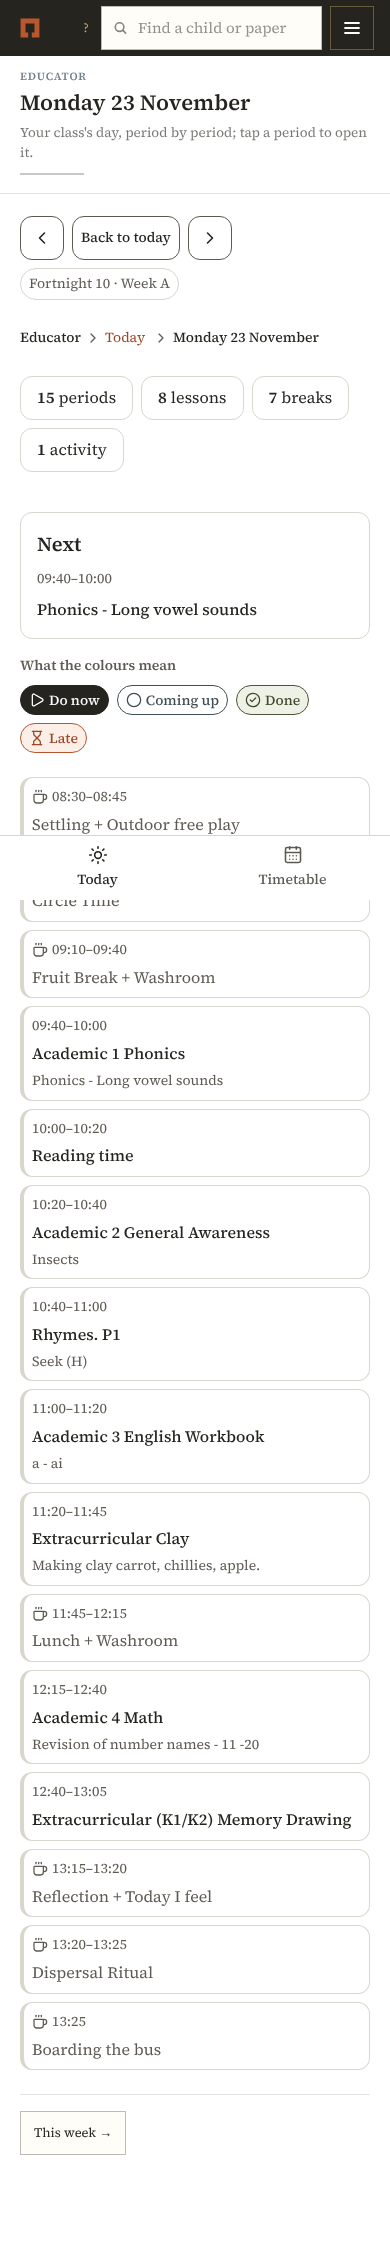
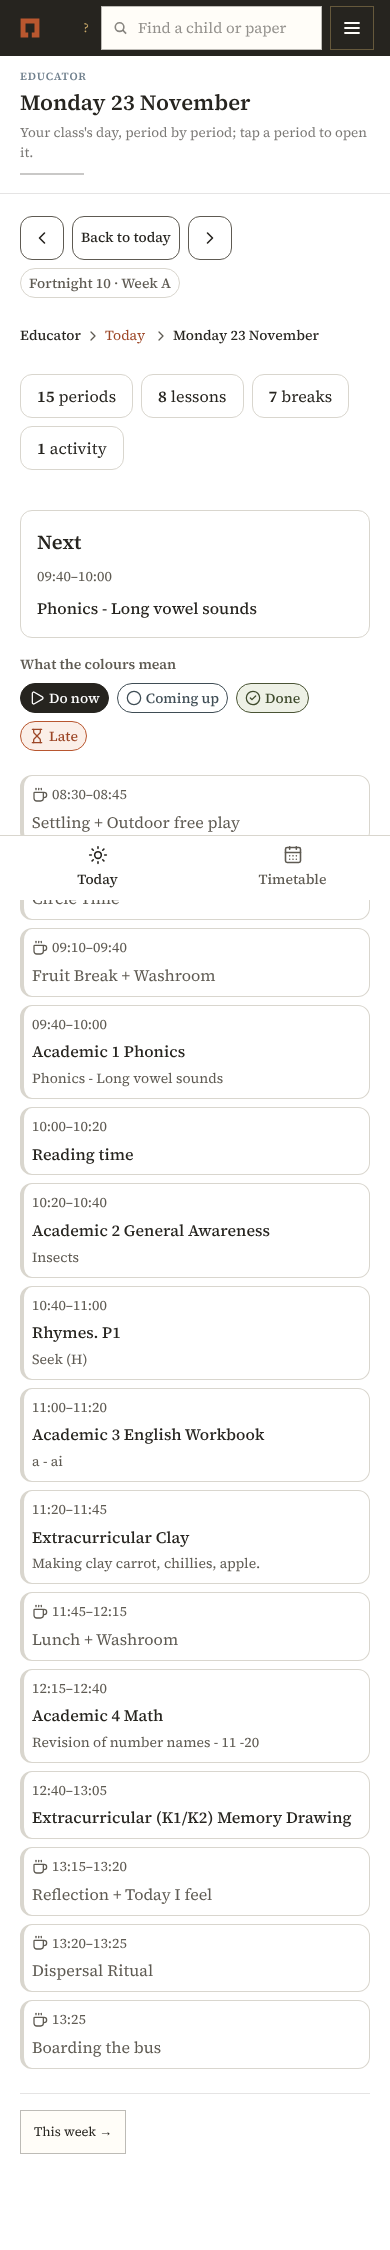
M1-09c: cleanup pass: one pill, one placement helper, lesson and blank-day helpers, chips worked out once; the test loads Fortnight 10 with M1-06's own command
Claude-Session: https://claude.ai/code/session_01KEBF264xrSf75grt89GY2U

diff --git a/apps/web/app/(app)/educator/week/page.tsx b/apps/web/app/(app)/educator/week/page.tsx
@@ -2,13 +2,14 @@ import Link from "@/components/link";
 import { PageShell } from "@/components/page-shell";
 import { PeriodBlock } from "@/components/educator/block";
 import { Crumbs } from "@/components/educator/crumbs";
-import { ClassPick, Steps, Where } from "@/components/educator/day-head";
+import { ClassPick, DayHead } from "@/components/educator/day-head";
 import { Summary } from "@/components/educator/summary";
 import { Legend } from "@/components/educator/tags";
 import { requireStaff } from "@/lib/auth";
 import { mondayOf, nowAtSchool, shortDate, whenIs } from "@/lib/educator/clock";
 import { weekOf } from "@/lib/educator/data";
-import { isDay, withEnds } from "@/lib/educator/period";
+import { chipOf } from "@/lib/educator/chip";
+import { blankWords, isBlank, isDay, isLesson, withEnds } from "@/lib/educator/period";
 import { notFound } from "next/navigation";
 import type { Week } from "@/lib/educator/types";
 import { E } from "@/lib/educator/words";
@@ -29,12 +30,7 @@ export default async function WeekPage({ searchParams }: { searchParams: Promise
       stage={E.area}
       title={w.week_of === mondayOf(today) ? E.week.title : `Week of ${shortDate(w.week_of)}`}
       purpose={E.week.purpose}
-      action={
-        <div className="flex w-full flex-wrap items-center justify-between gap-[var(--space-2)]">
-          <Steps back={at(mondayOf(w.week_of, -1))} now={at(today)} on={at(mondayOf(w.week_of, 1))} words={{ previous: E.weekNav.previous, next: E.weekNav.next, now: E.weekNav.now }} />
-          <Where fortnight={w.fortnight} week={w.week} frozen={w.frozen} />
-        </div>
-      }
+      action={<DayHead back={at(mondayOf(w.week_of, -1))} now={at(today)} on={at(mondayOf(w.week_of, 1))} words={E.weekNav} where={w} />}
       next={{ href: `/educator?class=${w.class.id}&day=${w.week_of}`, label: E.today.title }}
     >
       <Crumbs trail={[{ label: E.area }, { label: E.week.title, href: at(today) }, { label: `Week of ${shortDate(w.week_of)}` }]} />
@@ -43,7 +39,7 @@ export default async function WeekPage({ searchParams }: { searchParams: Promise
         items={[
           { label: E.counts.days, n: w.days.filter((d) => d.kind === "teaching" && d.periods.length).length, href: firstDay(w, (d) => d.kind === "teaching") },
           { label: E.counts.holidays, n: w.days.filter((d) => d.kind === "holiday").length, href: firstDay(w, (d) => d.kind === "holiday") },
-          { label: E.counts.lessons, n: w.days.flatMap((d) => d.periods).filter((p) => p.kind !== "fixed" && p.kind !== "empty").length },
+          { label: E.counts.lessons, n: w.days.flatMap((d) => d.periods).filter(isLesson).length },
           { label: E.counts.activities, n: w.days.flatMap((d) => d.periods).filter((p) => p.activity).length },
         ]}
       />
@@ -64,33 +60,36 @@ function WeekGrid({ w }: { w: Week }) {
   const starts = [...new Set(w.days.flatMap((d) => d.periods.map((p) => p.starts_at)))].sort();
   const row = (start: string) => starts.indexOf(start) + 2; // row 1 holds the days' names
   const now = nowAtSchool();
+  const today = schoolToday();
+  // A cell's place on the grid from md up; on a phone the cells stack in order.
+  const PLACE = "md:[grid-column:var(--c)] md:[grid-row:var(--r)]";
   return (
     <div data-week={w.week_of} className="grid gap-[var(--space-2)] md:grid-cols-[repeat(5,minmax(0,1fr))]">
       {w.days.map((d, i) => {
-        const col = { "--c": i + 1 } as React.CSSProperties;
-        const when = whenIs(d.day);
+        const cell = (r: string | number) => ({ "--c": i + 1, "--r": r }) as React.CSSProperties;
+        const when = whenIs(d.day, today);
         return [
           when === "today" ? (
-            <div key={`${d.day}-today`} data-today-column aria-hidden style={{ ...col, "--r": `1 / span ${starts.length + 1}` } as React.CSSProperties} className="rounded-[var(--radius-m)] bg-[var(--border)]/45 max-md:hidden md:[grid-column:var(--c)] md:[grid-row:var(--r)]" />
+            <div key={`${d.day}-today`} data-today-column aria-hidden style={cell(`1 / span ${starts.length + 1}`)} className={`rounded-[var(--radius-m)] bg-[var(--border)]/45 max-md:hidden ${PLACE}`} />
           ) : null,
           <Link
             key={`${d.day}-head`}
             id={`day-${d.day}`}
             href={`/educator?class=${w.class.id}&day=${d.day}`}
             data-day-head={d.day}
-            style={{ ...col, "--r": 1 } as React.CSSProperties}
-            className="flex min-h-[var(--tap)] items-center justify-between border-b border-[var(--border)] px-[var(--space-2)] font-semibold text-[var(--text)] no-underline max-md:mt-[var(--space-3)] md:[grid-column:var(--c)] md:[grid-row:var(--r)]"
+            style={cell(1)}
+            className={`flex min-h-[var(--tap)] items-center justify-between border-b border-[var(--border)] px-[var(--space-2)] font-semibold text-[var(--text)] no-underline max-md:mt-[var(--space-3)] ${PLACE}`}
           >
             {shortDate(d.day)}
           </Link>,
-          d.kind === "holiday" || d.kind === "none" || d.periods.length === 0 ? (
-            <div key={`${d.day}-none`} data-day={d.day} data-day-kind={d.kind} style={{ ...col, "--r": `2 / span ${Math.max(starts.length, 1)}` } as React.CSSProperties} className="grid min-h-[var(--tap)] place-content-center rounded-[var(--radius-m)] border border-dashed border-[var(--border)] p-[var(--space-3)] text-center text-[var(--text-muted)] md:[grid-column:var(--c)] md:[grid-row:var(--r)]">
-              {d.kind === "holiday" ? `${E.dayKind.holiday}${d.note ? `: ${d.note}` : ""}` : E.dayKind.none}
+          isBlank(d) ? (
+            <div key={`${d.day}-none`} data-day={d.day} data-day-kind={d.kind} style={cell(`2 / span ${Math.max(starts.length, 1)}`)} className={`grid min-h-[var(--tap)] place-content-center rounded-[var(--radius-m)] border border-dashed border-[var(--border)] p-[var(--space-3)] text-center text-[var(--text-muted)] ${PLACE}`}>
+              {blankWords(d)}
             </div>
           ) : (
             withEnds(d.periods).map((p) => (
-              <div key={`${d.day}-${p.period_id}`} data-day={d.day} style={{ ...col, "--r": row(p.starts_at) } as React.CSSProperties} className="min-w-0 md:[grid-column:var(--c)] md:[grid-row:var(--r)]">
-                <PeriodBlock p={p} href={`/educator/period/${p.period_id}?class=${w.class.id}&day=${d.day}`} day={when} now={now} compact />
+              <div key={`${d.day}-${p.period_id}`} data-day={d.day} style={cell(row(p.starts_at))} className={`min-w-0 ${PLACE}`}>
+                <PeriodBlock p={p} href={`/educator/period/${p.period_id}?class=${w.class.id}&day=${d.day}`} chip={chipOf(p, { now, day: when })} compact />
               </div>
             ))
           ),

diff --git a/apps/web/app/(app)/educator/page.tsx b/apps/web/app/(app)/educator/page.tsx
@@ -2,14 +2,14 @@ import { PageShell } from "@/components/page-shell";
 import { EmptyState } from "@/components/empty-state";
 import { PeriodBlock } from "@/components/educator/block";
 import { Crumbs } from "@/components/educator/crumbs";
-import { ClassPick, Steps, Where } from "@/components/educator/day-head";
+import { ClassPick, DayHead } from "@/components/educator/day-head";
 import { Summary } from "@/components/educator/summary";
-import { ChipTag, Legend } from "@/components/educator/tags";
+import { ChipTag, Legend, Pill } from "@/components/educator/tags";
 import { requireStaff } from "@/lib/auth";
 import { chipOf, countdown, nowAt } from "@/lib/educator/chip";
 import { longDate, nowAtSchool, schoolDay, whenIs } from "@/lib/educator/clock";
 import { dayOf } from "@/lib/educator/data";
-import { isDay, timeOf, withEnds } from "@/lib/educator/period";
+import { blankWords, isBlank, isDay, isLesson, timeOf, withEnds } from "@/lib/educator/period";
 import { notFound } from "next/navigation";
 import type { Day } from "@/lib/educator/types";
 import { E } from "@/lib/educator/words";
@@ -30,32 +30,26 @@ export default async function TodayPage({ searchParams }: { searchParams: Promis
       stage={E.area}
       title={d.day === today ? E.today.title : longDate(d.day)}
       purpose={E.today.purpose}
-      action={
-        <div className="flex w-full flex-wrap items-center justify-between gap-[var(--space-2)]">
-          <Steps back={at(schoolDay(d.day, -1))} now={at(today)} on={at(schoolDay(d.day, 1))} words={{ previous: E.day.previous, next: E.day.next, now: E.day.today }} />
-          <Where fortnight={d.fortnight} week={d.week} frozen={d.frozen} />
-        </div>
-      }
+      action={<DayHead back={at(schoolDay(d.day, -1))} now={at(today)} on={at(schoolDay(d.day, 1))} words={E.day} where={d} />}
       next={{ href: `/educator/week?class=${d.class.id}&day=${d.day}`, label: E.week.title }}
     >
       <Crumbs trail={[{ label: E.area }, { label: E.today.title, href: at(today) }, { label: longDate(d.day) }]} />
       <ClassPick classes={d.classes} on={d.class.id} href={(id) => `/educator?class=${id}&day=${d.day}`} />
-      <DayCalendar d={d} classId={d.class.id} />
+      <DayCalendar d={d} />
     </PageShell>
   );
 }
 
-function DayCalendar({ d, classId }: { d: Day; classId: string }) {
-  if (d.kind === "none" || d.kind === "holiday" || d.periods.length === 0)
-    return <EmptyState>{d.kind === "holiday" ? `${E.dayKind.holiday}${d.note ? `: ${d.note}` : ""}` : E.dayKind.none}</EmptyState>;
+function DayCalendar({ d }: { d: Day }) {
+  if (isBlank(d)) return <EmptyState>{blankWords(d)}</EmptyState>;
   const when = whenIs(d.day);
   const now = nowAtSchool();
   const periods = withEnds(d.periods);
   const work = periods.map((p) => ({ p, chip: chipOf(p, { now, day: when }) }));
-  const lessons = d.periods.filter((p) => p.kind !== "fixed" && p.kind !== "empty");
-  const next = work.find((w) => w.chip === "doNow") ?? (when === "past" ? undefined : work.find((w) => w.p.kind !== "fixed" && w.p.kind !== "empty" && (when === "future" || w.p.starts_at > now)));
+  const lessons = d.periods.filter(isLesson);
+  const next = work.find((w) => w.chip === "doNow") ?? (when === "past" ? undefined : work.find((w) => isLesson(w.p) && (when === "future" || w.p.starts_at > now)));
   const line = when === "today" ? nowAt(periods, now) : null;
-  const href = (id: string) => `/educator/period/${id}?class=${classId}&day=${d.day}`;
+  const href = (id: string) => `/educator/period/${id}?class=${d.class.id}&day=${d.day}`;
   const first = (ps: typeof d.periods) => (ps[0] ? `#p-${ps[0].period_id}` : undefined);
   const breaks = d.periods.filter((p) => p.kind === "fixed");
   const acts = d.periods.filter((p) => p.activity);
@@ -73,10 +67,10 @@ function DayCalendar({ d, classId }: { d: Day; classId: string }) {
       </div>
       <ol data-day={d.day} data-day-kind={d.kind} aria-label={longDate(d.day)} className="col-span-12 grid gap-[var(--space-2)] lg:col-span-8">
         {d.note?.startsWith("undecided:") ? <li className="text-[length:var(--text-label)] text-[var(--text-muted)]">{E.dayKind.undecided}</li> : null}
-        {periods.map((p, i) => (
+        {work.map(({ p, chip }, i) => (
           <li key={p.period_id} className="grid gap-[var(--space-2)]">
             {line === i ? <NowLine now={now} /> : null}
-            <PeriodBlock p={p} href={href(p.period_id)} day={when} now={now} />
+            <PeriodBlock p={p} href={href(p.period_id)} chip={chip} />
           </li>
         ))}
         {line === periods.length ? (
@@ -93,7 +87,9 @@ function DayCalendar({ d, classId }: { d: Day; classId: string }) {
               <span className="text-[length:var(--text-label)] text-[var(--text-muted)] tabular-nums">{timeOf(next.p)}</span>
               <span className="font-medium">{next.p.activity?.name ?? next.p.line ?? next.p.label}</span>
               {next.chip ? <ChipTag chip={next.chip} /> : null}
-              {next.chip !== "doNow" && when === "today" ? <span data-countdown className="w-fit rounded-[var(--radius-pill)] border px-[var(--space-2)] py-[var(--space-1)] text-[length:var(--text-label)] font-medium" style={{ color: "var(--chip-soon-fg)", borderColor: "var(--chip-soon-bd)" }}>{countdown(now, next.p.starts_at)}</span> : null}
+              {next.chip !== "doNow" && when === "today" ? <Pill tone="comingUp" fill={false} data-countdown>
+                  {countdown(now, next.p.starts_at)}
+                </Pill> : null}
             </>
           ) : (
             <p className="text-[var(--text-muted)]">{when === "past" ? E.dayOver : E.nothingLeft}</p>

diff --git a/apps/web/components/educator/block.tsx b/apps/web/components/educator/block.tsx
@@ -1,6 +1,6 @@
 import Link from "@/components/link";
 import { Icon } from "@/lib/icons";
-import { chipOf } from "@/lib/educator/chip";
+import type { Chip } from "@/lib/educator/chip";
 import { nameOf, timeOf } from "@/lib/educator/period";
 import type { Period } from "@/lib/educator/types";
 import { E } from "@/lib/educator/words";
@@ -8,9 +8,8 @@ import { CHIP, ChipTag } from "./tags";
 
 // One period as a calendar block (Today's day and This week's grid): its time as time, what it is in the school's words,
 // and its state's colour down its edge with the chip; a break is quiet, an empty slot says Free. Every block opens the
-// period. `compact` is the week grid's cell.
-export function PeriodBlock({ p, href, day, now, compact = false }: { p: Period; href: string; day: "past" | "today" | "future"; now: string; compact?: boolean }) {
-  const chip = chipOf(p, { now, day });
+// period. `compact` is the week grid's cell; `chip` is the page's own `chipOf` for it.
+export function PeriodBlock({ p, href, chip, compact = false }: { p: Period; href: string; chip: Chip | null; compact?: boolean }) {
   const time = timeOf(p);
   if (p.kind === "empty")
     return (
@@ -29,7 +28,7 @@ export function PeriodBlock({ p, href, day, now, compact = false }: { p: Period;
       data-period={p.period_id}
       data-kind={p.kind}
       data-state={chip ?? "none"}
-      className={`group grid min-h-[var(--tap)] gap-[var(--space-1)] rounded-[var(--radius-m)] border border-[var(--border)] border-l-[length:var(--space-1)] px-[var(--space-2)] py-[var(--space-2)] text-[var(--text)] no-underline hover:border-[var(--border-control)] bg-[var(--surface)]`}
+      className="group grid min-h-[var(--tap)] gap-[var(--space-1)] rounded-[var(--radius-m)] border border-[var(--border)] border-l-[length:var(--space-1)] bg-[var(--surface)] px-[var(--space-2)] py-[var(--space-2)] text-[var(--text)] no-underline hover:border-[var(--border-control)]"
       style={{ borderLeftColor: chip ? CHIP[chip].bd : "var(--border)" }}
     >
       <span className="flex flex-wrap items-center justify-between gap-[var(--space-2)]">

diff --git a/apps/web/components/educator/summary.tsx b/apps/web/components/educator/summary.tsx
@@ -2,22 +2,29 @@ import Link from "@/components/link";
 
 // The strip of counts at the top of a page (D-075): what the page holds, each count a link to the first of what it
 // counts. A count of nothing is shown and not linked.
+const BOX = "inline-flex min-h-[var(--tap)] items-center gap-[var(--space-1)] rounded-[var(--radius-m)] border border-[var(--border)] px-[var(--space-3)]";
+
 export function Summary({ items }: { items: { label: readonly [string, string]; n: number; href?: string }[] }) {
   return (
     <ul data-summary className="mb-[var(--space-3)] flex flex-wrap gap-[var(--space-2)]">
-      {items.map((i) => (
-        <li key={i.label[1]}>
-          {i.href && i.n ? (
-            <Link href={i.href} className="inline-flex min-h-[var(--tap)] items-center gap-[var(--space-1)] rounded-[var(--radius-m)] border border-[var(--border)] px-[var(--space-3)] text-[var(--text)] no-underline hover:border-[var(--border-control)]">
-              <span className="font-semibold tabular-nums">{i.n}</span> {i.label[i.n === 1 ? 0 : 1]}
-            </Link>
-          ) : (
-            <span className="inline-flex min-h-[var(--tap)] items-center gap-[var(--space-1)] rounded-[var(--radius-m)] border border-[var(--border)] px-[var(--space-3)] text-[var(--text-muted)]">
-              <span className="font-semibold tabular-nums">{i.n}</span> {i.label[i.n === 1 ? 0 : 1]}
-            </span>
-          )}
-        </li>
-      ))}
+      {items.map((i) => {
+        const body = (
+          <>
+            <span className="font-semibold tabular-nums">{i.n}</span> {i.label[i.n === 1 ? 0 : 1]}
+          </>
+        );
+        return (
+          <li key={i.label[1]}>
+            {i.href && i.n ? (
+              <Link href={i.href} className={`${BOX} text-[var(--text)] no-underline hover:border-[var(--border-control)]`}>
+                {body}
+              </Link>
+            ) : (
+              <span className={`${BOX} text-[var(--text-muted)]`}>{body}</span>
+            )}
+          </li>
+        );
+      })}
     </ul>
   );
 }

diff --git a/apps/web/components/educator/day-head.tsx b/apps/web/components/educator/day-head.tsx
@@ -3,6 +3,7 @@ import { Icon, type IconName } from "@/lib/icons";
 import type { ClassRef, Fortnight } from "@/lib/educator/types";
 import { classWords } from "@/lib/voice-types";
 import { E } from "@/lib/educator/words";
+import { Pill } from "./tags";
 
 // What sits above a calendar: step back, back to now, step on; the fortnight and week; her classes; the month's lock.
 const STEP = "inline-flex min-h-[var(--tap)] min-w-[var(--tap)] items-center justify-center gap-[var(--space-1)] rounded-[var(--radius-m)] border border-[var(--border-control)] bg-[var(--surface)] px-[var(--space-2)] text-[length:var(--text-label)] font-medium text-[var(--text)] no-underline";
@@ -22,10 +23,20 @@ export function Steps({ back, now, on, words }: { back: string; now: string; on:
   );
 }
 
+/** The row above a calendar: the steps on one side, where in the plan it is on the other. */
+export function DayHead({ back, now, on, words, where }: Parameters<typeof Steps>[0] & { where: Parameters<typeof Where>[0] }) {
+  return (
+    <div className="flex w-full flex-wrap items-center justify-between gap-[var(--space-2)]">
+      <Steps back={back} now={now} on={on} words={words} />
+      <Where {...where} />
+    </div>
+  );
+}
+
 export function Where({ fortnight, week, frozen }: { fortnight: Fortnight | null; week: "A" | "B" | null; frozen: boolean }) {
   return (
     <div className="flex flex-wrap items-center gap-[var(--space-2)] text-[length:var(--text-label)] text-[var(--text-muted)]">
-      {fortnight ? <span className="rounded-[var(--radius-pill)] border border-[var(--border)] px-[var(--space-2)] py-[var(--space-1)]">{E.fortnight(fortnight.number, week)}</span> : null}
+      {fortnight ? <Pill>{E.fortnight(fortnight.number, week)}</Pill> : null}
       {frozen ? (
         <span data-frozen title={E.frozenNote} className="inline-flex items-center gap-[var(--space-1)]">
           <Icon name="frozen" size={16} />

diff --git a/apps/web/components/educator/tags.tsx b/apps/web/components/educator/tags.tsx
@@ -11,13 +11,22 @@ export const CHIP: Record<Chip, { icon: IconName; fg: string; bg: string; bd: st
   late: { icon: "late", fg: "var(--chip-late-fg)", bg: "var(--chip-late-bg)", bd: "var(--chip-late-bd)" },
 };
 
-export function ChipTag({ chip }: { chip: Chip }) {
-  const c = CHIP[chip];
+/** The pill every chip, countdown and fortnight is drawn in: a state's colours, or the plain line. */
+export function Pill({ tone, fill = true, children, ...rest }: { tone?: Chip; fill?: boolean; children: React.ReactNode } & React.HTMLAttributes<HTMLSpanElement>) {
+  const c = tone ? CHIP[tone] : null;
   return (
-    <span data-chip={chip} className="inline-flex w-fit items-center gap-[var(--space-1)] rounded-[var(--radius-pill)] border px-[var(--space-2)] py-[var(--space-1)] text-[length:var(--text-label)] leading-[var(--lh-label)] font-medium whitespace-nowrap" style={{ color: c.fg, background: c.bg, borderColor: c.bd }}>
-      <Icon name={c.icon} size={16} />
-      {E.chips[chip]}
+    <span {...rest} className="inline-flex w-fit items-center gap-[var(--space-1)] rounded-[var(--radius-pill)] border border-[var(--border)] px-[var(--space-2)] py-[var(--space-1)] text-[length:var(--text-label)] leading-[var(--lh-label)] font-medium whitespace-nowrap" style={c ? { color: c.fg, background: fill ? c.bg : undefined, borderColor: c.bd } : undefined}>
+      {children}
     </span>
+  );
+}
+
+export function ChipTag({ chip }: { chip: Chip }) {
+  return (
+    <Pill tone={chip} data-chip={chip}>
+      <Icon name={CHIP[chip].icon} size={16} />
+      {E.chips[chip]}
+    </Pill>
   );
 }
 

diff --git a/apps/web/tests/m1-09-calendar.spec.ts b/apps/web/tests/m1-09-calendar.spec.ts
@@ -1,7 +1,7 @@
 /**
  * M1-09 — the K2 educator's Today and This week as calendars (goals/m1-09c-educator-calendar.yaml, D-075, D-076), on
  * M1-06's /timetable routes with Fortnight 10 as the school wrote it, loaded by M1-06's own loader into the tests'
- * placeholder K2 class (packages/engine/tests/k2_timetable_rows.py). Every period a block with its time as time and the
+ * placeholder K2 class (M1-06's `engine timetable load`). Every period a block with its time as time and the
  * school's words, coloured by its state; every block opens its period. No child anywhere.
  */
 import path from "node:path";
@@ -17,7 +17,9 @@ let klass = "";
 
 test.beforeAll(async () => {
   ({ klass } = await k2Class(sql));
-  execFileSync("uv", ["run", "python", "tests/k2_timetable_rows.py", SECTION], { cwd: path.resolve(__dirname, "../../../packages/engine"), env: process.env, stdio: "pipe" });
+  const tab = (f: string) => path.resolve(__dirname, "../../../supabase/seed/k2_tabs_2026_11_04", f);
+  // M1-06's own command, as a person runs it: Fortnight 10 into the placeholder class. Safe to run twice.
+  execFileSync(path.resolve(__dirname, "../../../bin/engine"), ["timetable", "load", "--frame", tab("frame.csv"), "--planner", tab("planner.csv"), "--calendar", tab("calendar.csv"), "--spans", tab("frame_spans.json"), "--section", SECTION, "--grade", "K2", "--from", "10", "--to", "10", "--year", "2031-32", "--apply"], { env: process.env, stdio: "pipe" });
 });
 test.afterAll(async () => {
   await timetableSwitch(sql, false);

diff --git a/apps/web/lib/educator/period.ts b/apps/web/lib/educator/period.ts
@@ -1,4 +1,5 @@
-import type { Period } from "./types";
+import type { Day, Period } from "./types";
+import { E } from "./words";
 
 // What a period is called and when it is, said once for every screen (M1-09).
 
@@ -16,6 +17,13 @@ export function nameOf(p: Pick<Period, "kind" | "label" | "text" | "line">): str
   const cut = p.line ? p.text.lastIndexOf(": ") : -1;
   return cut > 0 ? p.text.slice(0, cut) : p.text || p.label;
 }
+
+/** A lesson: a period with work in it, not a break and not an empty slot. */
+export const isLesson = (p: Pick<Period, "kind">) => p.kind !== "fixed" && p.kind !== "empty";
+
+/** A day with nothing to draw, and what it says instead. */
+export const isBlank = (d: Pick<Day, "kind" | "periods">) => d.kind === "holiday" || d.kind === "none" || d.periods.length === 0;
+export const blankWords = (d: Pick<Day, "kind" | "note">) => (d.kind === "holiday" ? `${E.dayKind.holiday}${d.note ? `: ${d.note}` : ""}` : E.dayKind.none);
 
 /** A day in the address: YYYY-MM-DD and a real date, or nothing. */
 export const isDay = (s: string | undefined): s is string => !!s && /^\d{4}-\d{2}-\d{2}$/.test(s) && !Number.isNaN(Date.parse(`${s}T00:00:00Z`));

diff --git a/apps/web/lib/educator/words.ts b/apps/web/lib/educator/words.ts
@@ -2,11 +2,11 @@
 export const E = {
   area: "Educator",
   chips: { doNow: "Do now", comingUp: "Coming up", done: "Done", late: "Late" },
-  nav: { label: "Your timetable", today: "Today", timetable: "Timetable", day: "Tomorrow", week: "This week", nextWeek: "Next week" },
+  nav: { label: "Your timetable", timetable: "Timetable", day: "Tomorrow" },
   today: { title: "Today", purpose: "Your class's day, period by period; tap a period to open it." },
   week: { title: "This week", purpose: "Your class's week as a calendar; tap any period to open it." },
-  period: { title: "Period", purpose: "What this period is, the school's words for it, and its activity." },
-  day: { previous: "Previous day", next: "Next day", today: "Back to today" },
+  period: { purpose: "What this period is, the school's words for it, and its activity." },
+  day: { previous: "Previous day", next: "Next day", now: "Back to today" },
   weekNav: { previous: "Previous week", next: "Next week", now: "Back to this week" },
   dayKind: { none: "No school day on record.", holiday: "Holiday", undecided: "Not decided yet: the frame's periods only." },
   free: "Free",

diff --git a/apps/web/lib/educator/menu.ts b/apps/web/lib/educator/menu.ts
@@ -4,7 +4,7 @@ import { E } from "./words";
 // The K2 educator's menu (D-075's order): Today, then the timetable (a day, this week, next week). Fortnight, month,
 // activities, materials and children come with their screens.
 export const EDUCATOR_MENU: MenuItem[] = [
-  { key: "today", label: E.nav.today, icon: "today", path: "/educator", also: ["/educator/period"] },
+  { key: "today", label: E.today.title, icon: "today", path: "/educator", also: ["/educator/period"] },
   {
     key: "week",
     label: E.nav.timetable,
@@ -12,8 +12,8 @@ export const EDUCATOR_MENU: MenuItem[] = [
     path: "/educator/week",
     sub: [
       { key: "day", label: E.nav.day, path: "/educator", extra: "tomorrow" },
-      { key: "week", label: E.nav.week, path: "/educator/week" },
-      { key: "next", label: E.nav.nextWeek, path: "/educator/week", extra: "next" },
+      { key: "week", label: E.week.title, path: "/educator/week" },
+      { key: "next", label: E.weekNav.next, path: "/educator/week", extra: "next" },
     ],
   },
 ];

diff --git a/apps/web/lib/educator/clock.ts b/apps/web/lib/educator/clock.ts
@@ -3,10 +3,8 @@ import { schoolToday } from "../voice-page";
 
 // The school's clock, not the server's (a page drawn at 03:54 in Pune is about that Pune day): the date and HH:MM.
 export const nowAtSchool = () => new Date().toLocaleTimeString("en-GB", { timeZone: SCHOOL_ZONE, hour: "2-digit", minute: "2-digit", hour12: false });
-export const whenIs = (day: string): "past" | "today" | "future" => {
-  const today = schoolToday();
-  return day < today ? "past" : day > today ? "future" : "today";
-};
+export type When = "past" | "today" | "future";
+export const whenIs = (day: string, today = schoolToday()): When => (day < today ? "past" : day > today ? "future" : "today");
 
 const iso = (t: number) => new Date(t).toISOString().slice(0, 10);
 const at = (day: string) => Date.parse(`${day}T00:00:00Z`);

diff --git a/apps/web/lib/educator/types.ts b/apps/web/lib/educator/types.ts
@@ -38,9 +38,5 @@ export type Week = {
   frozen: boolean;
   days: { day: string; weekday: number; kind: DayKind; note: string | null; periods: Period[] }[];
 };
-import type { BodyOf } from "../engine";
-
-/** A part of an activity she may correct: the engine's own list (engine/api/routes/activity.py). */
-export type EditablePart = BodyOf<"/activity/edit">["field"];
 /** One period (M1-06's /timetable/period): the period, its day, and the planner's lines under the same heading. */
 export type OnePeriod = Period & { classes: ClassRef[]; class: ClassRef; frozen: boolean; day: string; note: string | null; week: "A" | "B" | null; fortnight: Fortnight | null; plan_lines: string[] };
